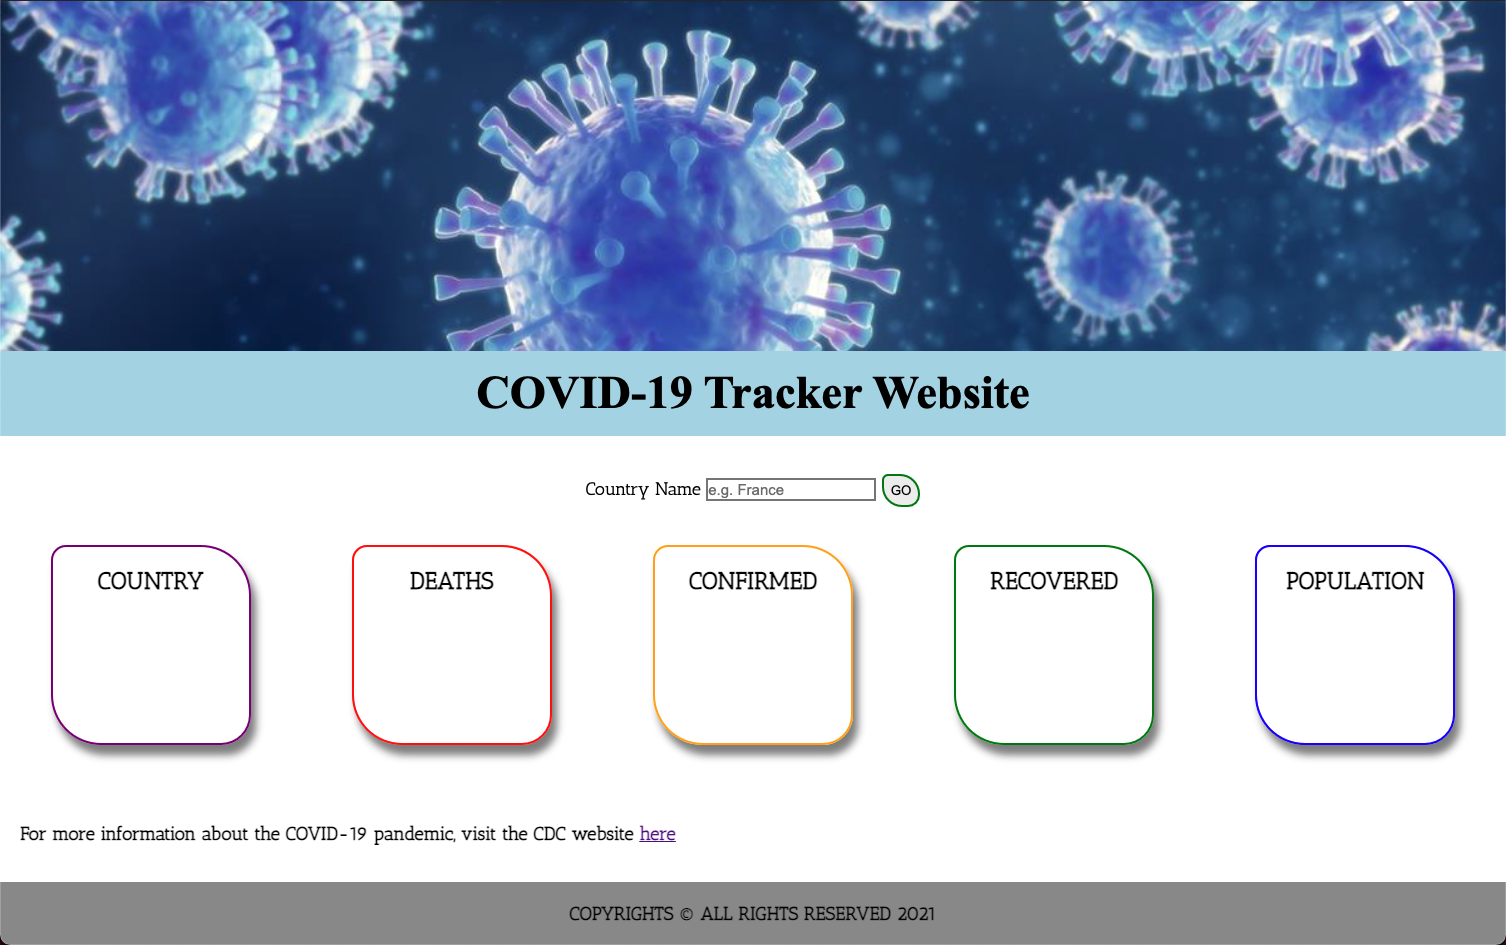
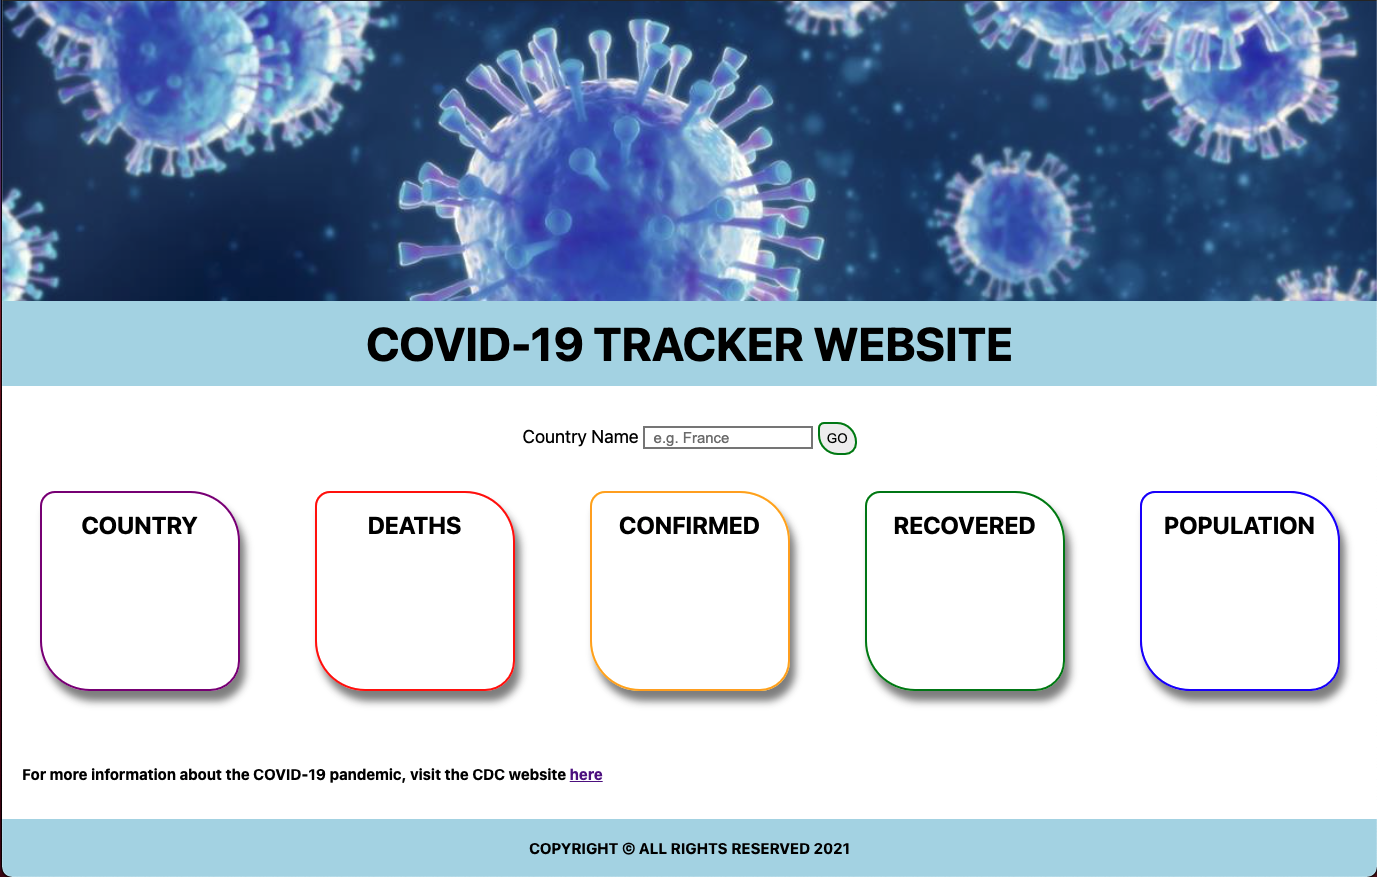
final commit before deployment, fixed bug of when the first letter of the country is not in capital letter the data wont return to the display

diff --git a/js/script.js b/js/script.js
@@ -28,9 +28,14 @@ $('form').on('submit', handleSubmit);
 function handleSubmit (ga) {
     ga.preventDefault();
 
-    const term = $input.val();
+    let term = $input.val();
+   
+    term = term.toLowerCase();
+
+    term = term.charAt(0).toUpperCase() + term.slice(1);
 
     $input.val("");
+    // console.log(term); testing
 
     $.ajax(BASE_URL + term)
     .then(function(data) {
@@ -53,12 +58,3 @@ function render() {
     }
 }
 }); // IIFE closing statement
-
-// CHECK TOMORROW IF THIS CODE WORKS FOR MEDIA QUERIES FOR PHONE SCREEN SIZES
-
-// #collection {
-//     margin: 35px auto 0 auto;
-//     max-width: 860px;
-//     display: flex;
-//     flex-wrap: wrap; <--- this is how we can create that effect
-//     justify-content: center;

diff --git a/index.html b/index.html
@@ -55,7 +55,7 @@
             </div>
         </div>   <br><br><br> 
         
-        <h3>For more information about the COVID-19 pandemic, visit the CDC website <a href="https://www.cdc.gov/coronavirus/2019-ncov/index.html" target="_blank">here</a></h3>
+        <h3 id="info">For more information about the COVID-19 pandemic, visit the CDC website <a href="https://www.cdc.gov/coronavirus/2019-ncov/index.html" target="_blank">here</a></h3>
         
     </div><br><br><br><br>
 

diff --git a/css/style.css b/css/style.css
@@ -157,4 +157,16 @@ h3 {
         flex-wrap: wrap; 
         justify-content: center;
     }
+    h1 {
+        height: 180px;
+        padding-top: 10px;
+    }
+    
+    .main-img-container {
+        display: none;
+    }
+    h3 {
+        position: relative;
+        display: none;
+    }
 }

diff --git a/README.md b/README.md
@@ -34,4 +34,4 @@ A simple web application to track COVID-19 cases and stats by country.
 
 ## 💣 Unresolved issues
 
-- When searching a country on the input field, first letter of the country must be entered manually in uppercase for the API to return the desired information, currently transforming the text to "capitalize" does not work.
+- When looking at the website from a mobile device, images and some content may not display, only material displayed will be the title, searchbox and content boxes.
